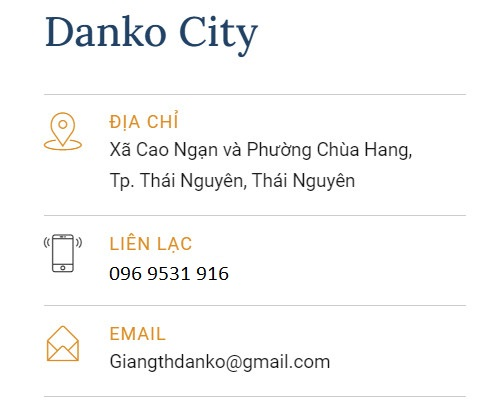
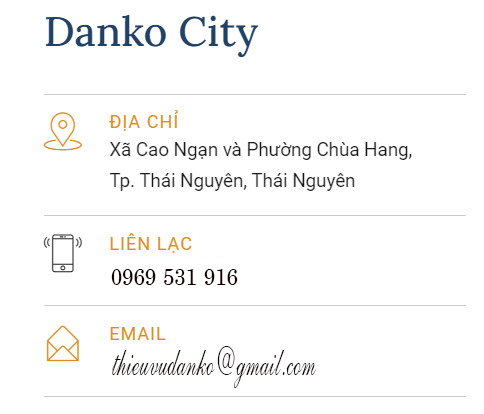
update

diff --git a/src/components/content/form/Form.js b/src/components/content/form/Form.js
@@ -7,6 +7,7 @@ const Form = ({ color, top, paddingMenu, btn }) => {
     const [name, setName] = useState("");
     const [email, setEmail] = useState("");
     const [phone, setPhone] = useState("");
+    const [checkName, setCheckName] = useState(false);
     const [validateEmail, setValidateEmail] = useState(false);
     const [validatePhone, setValidatePhone] = useState(false);
     const [checkPhone, setCheckPhone] = useState(false);
@@ -51,20 +52,15 @@ const Form = ({ color, top, paddingMenu, btn }) => {
 
     async function submitGoogleForms() {
         const formdata = new FormData();
-        formdata.append("entry.1143621888", name ? name : "");
-        formdata.append("entry.1398904860", email ? email : "");
-        formdata.append("entry.689601757", phone);
+        formdata.append("entry.518681509", name);
+        formdata.append("entry.1796644577", email ? email : "");
+        formdata.append("entry.1677124973", phone);
         // postData(formUrl, formdata);
 
         await axios({
             url: `${formUrl}`,
             data: formdata,
             method: "POST",
-            // mode: "no-cors",
-            // cache: "no-cache",
-            // credentials: "same-origin",
-            // redirect: "follow",
-            // referrerPolicy: "no-referrer",
         })
             .then(function () {
                 setOK(true);
@@ -102,6 +98,7 @@ const Form = ({ color, top, paddingMenu, btn }) => {
         e.preventDefault();
         const valiEmail = fValidateEmail(email);
         const valiPhone = fValidatePhone(phone);
+        setCheckName(!name);
         setValidateEmail(!valiEmail);
         if (phone) {
             setCheckPhone(false);
@@ -110,7 +107,7 @@ const Form = ({ color, top, paddingMenu, btn }) => {
             setCheckPhone(true);
             setValidatePhone(false);
         }
-        if (valiEmail && valiPhone && phone) {
+        if (valiEmail && valiPhone && phone && checkName) {
             submitGoogleForms();
         }
     }
@@ -134,6 +131,7 @@ const Form = ({ color, top, paddingMenu, btn }) => {
                 onChange={(e) => setName(e.target.value)}
                 placeholder="Tên khách hàng"
             />
+            {checkName ? <p>Mục này là bắt buộc.</p> : <Fragment />}
             <input
                 className={validateEmail ? "input-err" : ""}
                 value={email}
@@ -156,7 +154,7 @@ const Form = ({ color, top, paddingMenu, btn }) => {
                 </button>
             </div>
 
-            {validateEmail || validatePhone || checkPhone ? (
+            {validateEmail || validatePhone || checkPhone || checkName ? (
                 <div className="error-input">
                     Có một hoặc nhiều mục nhập có lỗi. Vui lòng kiểm tra và thử
                     lại.
@@ -171,7 +169,11 @@ const Form = ({ color, top, paddingMenu, btn }) => {
             ) : (
                 <Fragment />
             )}
-            {err && !validateEmail && !validatePhone && !checkPhone ? (
+            {err &&
+            !validateEmail &&
+            !validatePhone &&
+            !checkPhone &&
+            checkName ? (
                 <div className="err-input">
                     Đã sảy ra lỗi, bạn vui lòng gửi lại thông tin cho chung tôi.
                     Xin cảm ơn!

diff --git a/src/components/content/index/Home.js b/src/components/content/index/Home.js
@@ -222,8 +222,8 @@ const TienDo = () => {
                 <div className="box-video">
                     <p>
                         <iframe
-                            src="https://www.youtube.com/embed/aWPN5yreMrI"
-                            title="YouTube video player"
+                            src="https://www.youtube.com/embed/DD5_8kCPaEA"
+                            title="DANKO CITY TỪ MÔ HÌNH ĐẾN THỰC TẾ"
                             frameBorder="0"
                             allow="accelerometer; autoplay; clipboard-write; encrypted-media; gyroscope; picture-in-picture"
                             allowFullScreen

diff --git a/src/components/footer/Hotline.js b/src/components/footer/Hotline.js
@@ -26,7 +26,7 @@ const Hotline = () => {
                     // without="true"
                     rel="noopener noreferrer"
                     target="_blank"
-                    href="https://zalo.me/0987978613"
+                    href="https://zalo.me/0969531916"
                 >
                     {" "}
                     <img src={zaloicon} alt="zalo" />
